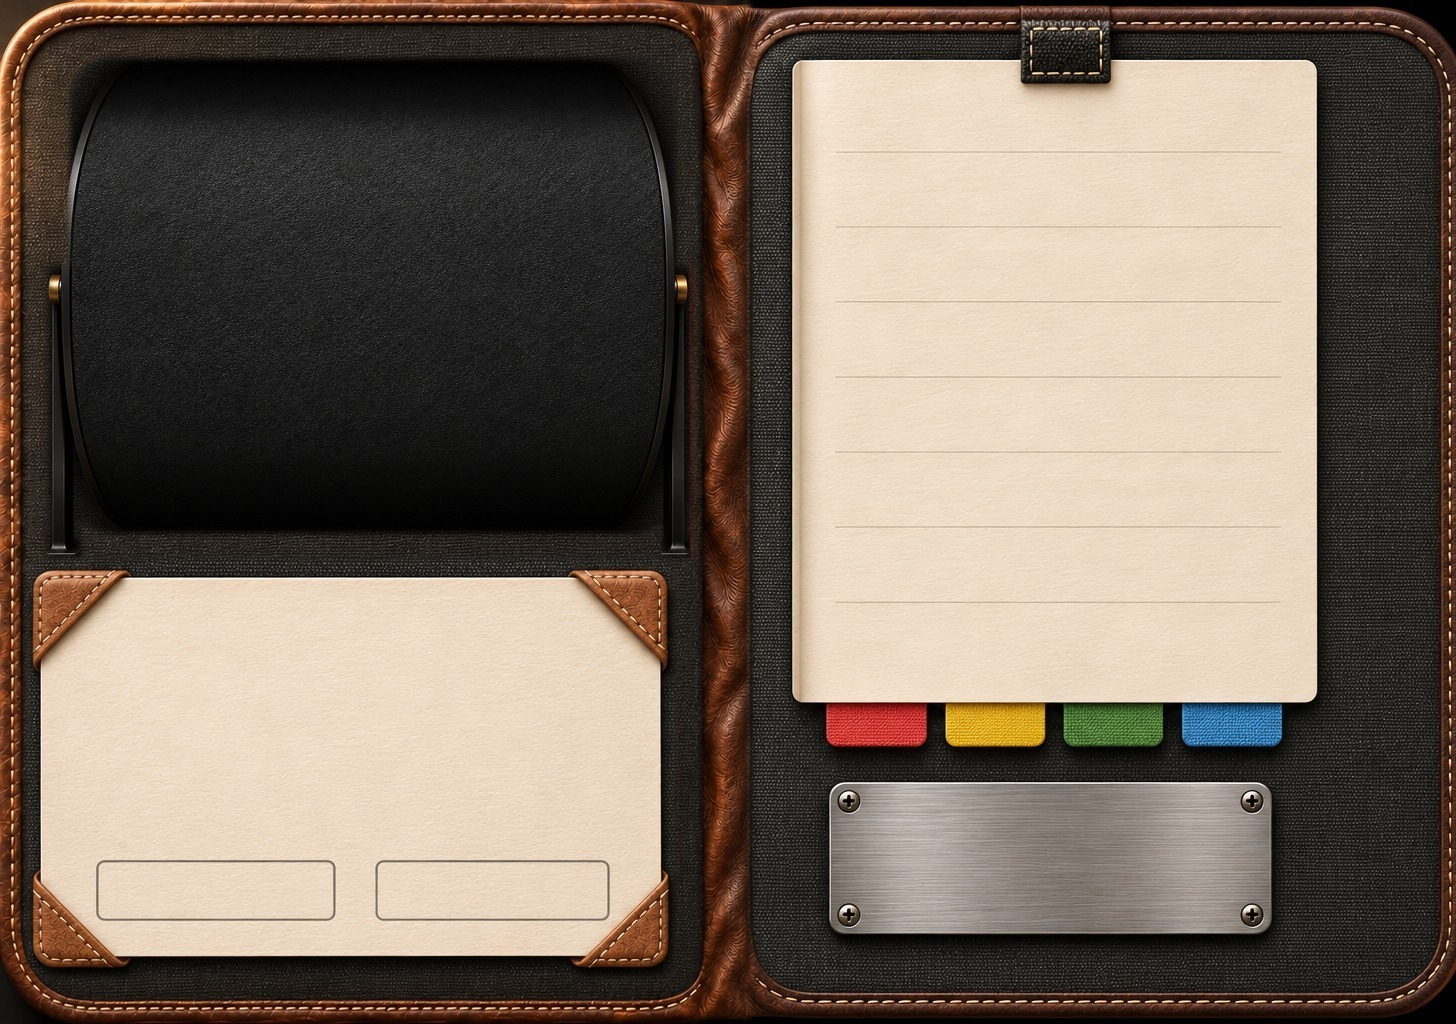
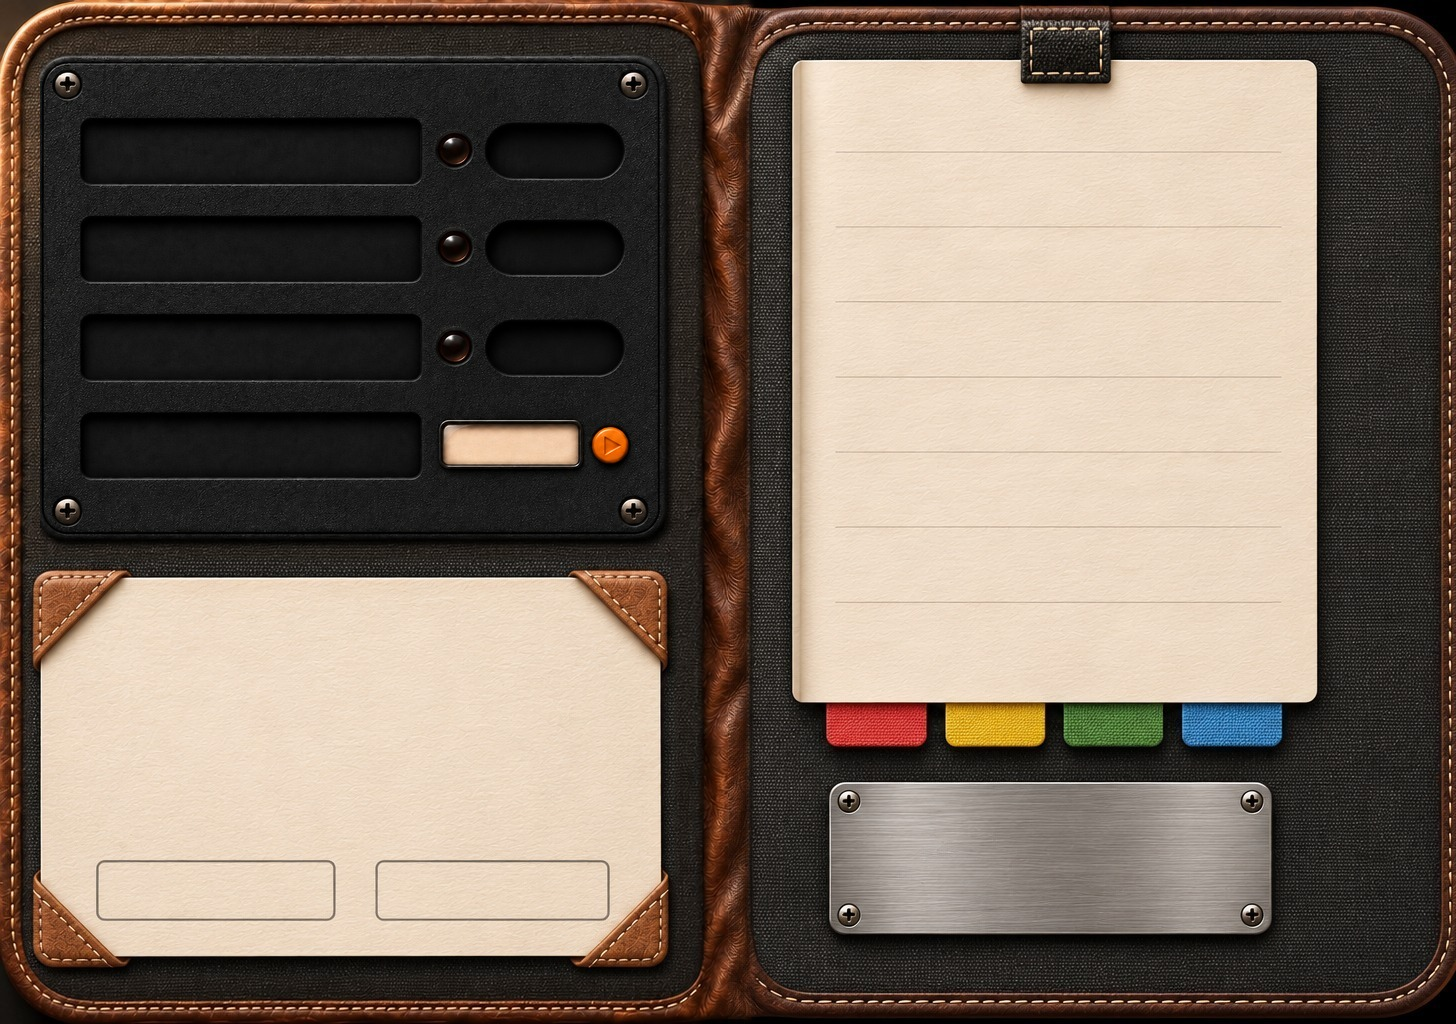
Settings back on the flat plate (user 11/24: the drum did not look good), now four rows drawn as one: three orange sliders and a Language row (paper window naming the app's language, arrow key opening iOS Settings). GPT drew the plate with thumbs in (plate4_on) and empty (plate4_empty); thumbs and l

Changed region(s): [[0.0, 0.0312, 0.4945, 0.5625]]

diff --git a/cameragr/UI/MaintenanceKit.swift b/cameragr/UI/MaintenanceKit.swift
@@ -14,15 +14,10 @@ enum KitArt {
     static let board = UIImage(named: "kit_board.jpg") ?? UIImage()
     /// Each row's slider thumb and its lamp lit warm orange, cut from GPT's
     /// drawing of this very plate with the thumbs in its slots
-    /// (design/kit/switch/plate_slider_orange.png: orange plastic, user 11/24),
-    /// so they fit the slots.
-    static let thumb = UIImage(named: "kit_thumb_0") ?? UIImage()
-    static let lampOn = UIImage(named: "kit_lamp_on_0") ?? UIImage()
-    /// One face of the settings drum, empty: a switch row (label recess, lamp,
-    /// slot) and a choice row (label recess, paper window, arrow key), cut
-    /// from GPT's drawings of the plate (design/kit/switch).
-    static let toggleRow = UIImage(named: "kit_row_toggle") ?? UIImage()
-    static let choiceRow = UIImage(named: "kit_row_value") ?? UIImage()
+    /// (design/kit/switch/plate4_on.png); the spread carries the same plate
+    /// drawn empty (plate4_empty.png), so thumb and slot are one drawing.
+    static let thumb = (0..<3).map { UIImage(named: "kit_thumb_\($0)") ?? UIImage() }
+    static let lampOn = (0..<3).map { UIImage(named: "kit_lamp_on_\($0)") ?? UIImage() }
     static let ink = Color(red: 0.2, green: 0.17, blue: 0.13)
     static let cream = Color(red: 0.93, green: 0.89, blue: 0.80)
 }
@@ -52,24 +47,34 @@ struct KitSwitchPage: View {
     @State private var restoreNote: Text?
     @State private var restoring = false
 
-    /// The certificate's printed boxes, measured on the picture.
+    /// Measured on the picture (bag pixels): the plate's four rows. Rows
+    /// 1–3 are switches (label recess, lamp, slot); row 4 is the language
+    /// (label recess, paper window, arrow key).
+    static let recessY: [CGFloat] = [118, 216, 314, 413]
+    static let recessH: CGFloat = 66
+    static let thumbOn: [CGRect] = [CGRect(x: 537, y: 127, width: 84, height: 50),
+                                    CGRect(x: 537, y: 225, width: 83, height: 49),
+                                    CGRect(x: 537, y: 324, width: 83, height: 50)]
+    /// How far the thumb moves to the slot's left end (off): the same gap at either end.
+    static let thumbTravel: CGFloat = 47
+    static let lampOn: [CGRect] = [CGRect(x: 410, y: 108, width: 86, height: 86),
+                                   CGRect(x: 412, y: 206, width: 86, height: 86),
+                                   CGRect(x: 411, y: 305, width: 86, height: 86)]
+    static let languageWindow = CGRect(x: 441, y: 422, width: 140, height: 45)
+    static let languageKey = CGRect(x: 588, y: 423, width: 45, height: 45)
     static let certificateText = CGRect(x: 110, y: 616, width: 500, height: 230)
     static let restore = CGRect(x: 97, y: 860, width: 236, height: 60)
     static let redeem = CGRect(x: 376, y: 860, width: 253, height: 60)
 
     var body: some View {
         ZStack(alignment: .topLeading) {
-            SettingsDrum(s: s, items: [
-                .toggle(title: Text("Original"), detail: Text("Save the iPhone original too"), isOn: $saveOriginal) { Preferences.saveOriginal = $0 },
-                .toggle(title: Text("Shutter sound"), detail: Text("A click when you shoot"), isOn: $shutterSound) { Preferences.shutterSound = $0 },
-                .toggle(title: Text("Haptics"), detail: Text("A light tap under your finger"), isOn: $haptics) { on in
-                    Haptic.enabled = on
-                    if on { Haptic.tap() }
-                },
-                .choice(title: Text("Language"), detail: Text("Chosen in iOS Settings"), value: Self.languageName) {
-                    if let url = URL(string: UIApplication.openSettingsURLString) { openURL(url) }
-                },
-            ])
+            switchRow(0, title: Text("Original"), detail: Text("Save the iPhone original too"), isOn: $saveOriginal) { Preferences.saveOriginal = $0 }
+            switchRow(1, title: Text("Shutter sound"), detail: Text("A click when you shoot"), isOn: $shutterSound) { Preferences.shutterSound = $0 }
+            switchRow(2, title: Text("Haptics"), detail: Text("A light tap under your finger"), isOn: $haptics) { on in
+                Haptic.enabled = on
+                if on { Haptic.tap() }
+            }
+            languageRow
             certificate
         }
         .offerCodeRedemption(isPresented: $redeeming) { _ in Task { await store.refresh() } }
@@ -80,6 +85,77 @@ struct KitSwitchPage: View {
     static var languageName: String {
         let code = Bundle.main.preferredLocalizations.first ?? "en"
         return Locale(identifier: code).localizedString(forIdentifier: code).map { $0.prefix(1).uppercased() + $0.dropFirst() } ?? code
+    }
+
+    /// The fourth row: the language in a paper window; the arrow key (or the
+    /// whole row) opens iOS Settings, where a language is chosen per app.
+    private var languageRow: some View {
+        ZStack(alignment: .topLeading) {
+            rowLabels(3, title: Text("Language"), detail: Text("Chosen in iOS Settings"))
+            Text(verbatim: Self.languageName)
+                .font(.custom("American Typewriter", size: 22 * s * b).weight(.semibold))
+                .foregroundStyle(KitArt.ink)
+                .lineLimit(1).minimumScaleFactor(0.5)
+                .padding(.horizontal, 10 * s)
+                .place(Self.languageWindow, s)
+                .allowsHitTesting(false)
+            Color.clear.contentShape(Rectangle())
+                .place(CGRect(x: 80, y: Self.recessY[3] - 8, width: 560, height: Self.recessH + 16), s)
+                .onTapGesture {
+                    Haptic.click()
+                    if let url = URL(string: UIApplication.openSettingsURLString) { openURL(url) }
+                }
+                .accessibilityElement()
+                .accessibilityLabel(Text("Language"))
+                .accessibilityValue(Text(verbatim: Self.languageName))
+                .accessibilityAddTraits(.isButton)
+        }
+    }
+
+    private func rowLabels(_ i: Int, title: Text, detail: Text) -> some View {
+        VStack(alignment: .leading, spacing: 2 * s) {
+            title.font(.custom("American Typewriter", size: 26 * s * b).weight(.semibold))
+                .foregroundStyle(Color(white: 0.84))
+            if !b.isCompactBag {
+                detail.font(.custom("American Typewriter", size: 17 * s * b))
+                    .foregroundStyle(Color(white: 0.58))
+            }
+        }
+        .lineLimit(1).minimumScaleFactor(0.55)
+        .shadow(color: .black, radius: 0, y: -1 * s)
+        .padding(.horizontal, 18 * s)
+        .place(CGRect(x: 84, y: Self.recessY[i], width: 334, height: Self.recessH), s, alignment: .leading)
+        .allowsHitTesting(false)
+    }
+
+    private func switchRow(_ i: Int, title: Text, detail: Text, isOn: Binding<Bool>, apply: @escaping (Bool) -> Void) -> some View {
+        let y = Self.recessY[i]
+        return ZStack(alignment: .topLeading) {
+            rowLabels(i, title: title, detail: detail)
+            // The lamp lights; the thumb slides to the slot's other end.
+            Image(uiImage: KitArt.lampOn[i]).resizable()
+                .place(Self.lampOn[i], s)
+                .opacity(isOn.wrappedValue ? 1 : 0)
+                .allowsHitTesting(false)
+            Image(uiImage: KitArt.thumb[i]).resizable()
+                .place(Self.thumbOn[i], s)
+                .offset(x: isOn.wrappedValue ? 0 : -Self.thumbTravel * s)
+                .animation(.spring(response: 0.22, dampingFraction: 0.8), value: isOn.wrappedValue)
+                .allowsHitTesting(false)
+            // The whole row is the switch.
+            Color.clear.contentShape(Rectangle())
+                .place(CGRect(x: 80, y: y - 8, width: 560, height: Self.recessH + 16), s)
+                .onTapGesture {
+                    isOn.wrappedValue.toggle()
+                    apply(isOn.wrappedValue)
+                    Haptic.click()
+                }
+                .accessibilityElement()
+                .accessibilityLabel(detail)
+                .accessibilityValue(isOn.wrappedValue ? Text("On") : Text("Off"))
+                .accessibilityAddTraits(.isButton)
+        }
+        .animation(.easeOut(duration: 0.1), value: isOn.wrappedValue)
     }
 
     private var certificate: some View {
@@ -369,151 +445,5 @@ struct KitHandbookPage: View {
         }
         .offset(x: sheet.minX, y: sheet.minY)
         .transition(.opacity)
-    }
-}
-
-
-// MARK: - Settings drum
-
-/// The settings on a drum of very large diameter (user 11/24): the plate as
-/// it was, but the face of a cylinder lying across the page. The rows near the
-/// front look nearly flat; those further round are squashed and darker as
-/// they go over the curve. Dragged up or down, it turns, coming to rest on a
-/// whole row with a click at each, so any number of settings fit.
-/// The drum itself, its brackets and shading, is GPT's (design/kit/switch/drum_shell.png)
-/// in the spread; the rows are drawn on it here, each at its angle.
-struct SettingsDrum: View {
-    enum Item {
-        case toggle(title: Text, detail: Text, isOn: Binding<Bool>, apply: (Bool) -> Void)
-        case choice(title: Text, detail: Text, value: String, action: () -> Void)
-    }
-    @Environment(\.bagBoost) private var b
-    let s: CGFloat
-    let items: [Item]
-    /// Which row faces us, in rows (fractional while turning).
-    @State private var turn: CGFloat = 1
-    @State private var dragFrom: CGFloat?
-
-    /// Measured on the spread (bag pixels): the drum's face, its axis height
-    /// and radius; one row every 32° (144 px apart at the front, as the plate's rows were).
-    static let face = CGRect(x: 70, y: 62, width: 595, height: 466)
-    static let axisY: CGFloat = 295
-    static let radius: CGFloat = 233   // the face's top and bottom edges are its horizon
-    static let step: CGFloat = 32 * .pi / 180
-    /// A row's picture (584×104) and where its left edge sits.
-    static let rowSize = CGSize(width: 584, height: 104)
-    static let rowX: CGFloat = 66
-    // In a row's own pixels.
-    static let label = CGRect(x: 20, y: 8, width: 330, height: 88)
-    static let thumbOn = CGRect(x: 471, y: 28, width: 84, height: 52)
-    static let thumbTravel: CGFloat = 46
-    static let lamp = CGRect(x: 346, y: 10, width: 86, height: 86)
-    static let window = CGRect(x: 375, y: 32, width: 156, height: 49)
-    static let key = CGRect(x: 536, y: 34, width: 44, height: 44)
-
-    private var range: ClosedRange<CGFloat> {
-        let n = CGFloat(items.count)
-        return min(1, n - 1)...max(min(1, n - 1), n - 2)
-    }
-
-    var body: some View {
-        let face = Self.face
-        ZStack(alignment: .topLeading) {
-            ForEach(items.indices, id: \.self) { i in
-                let angle = (CGFloat(i) - turn) * Self.step
-                if abs(angle) < 1.45 {
-                    row(items[i], front: abs(angle) < 0.7)
-                        .frame(width: Self.rowSize.width * s, height: Self.rowSize.height * s)
-                        // Squashed by the curve and darker as it turns away.
-                        .scaleEffect(x: 1, y: cos(angle))
-                        .colorMultiply(Color(white: 0.25 + 0.75 * cos(angle)))
-                        .position(x: (Self.rowX - face.minX + Self.rowSize.width / 2) * s,
-                                  y: (Self.axisY - face.minY + Self.radius * sin(angle)) * s)
-                }
-            }
-        }
-        .frame(width: face.width * s, height: face.height * s, alignment: .topLeading)
-        .clipShape(RoundedRectangle(cornerRadius: 30 * s))
-        .contentShape(Rectangle())
-        .gesture(DragGesture(minimumDistance: 6).onChanged { drag in
-            let from = dragFrom ?? turn
-            if dragFrom == nil { dragFrom = turn }
-            let pitch = Self.radius * Self.step * s
-            var next = from - drag.translation.height / pitch
-            // Past either end it gives, a little.
-            if next < range.lowerBound { next = range.lowerBound - (range.lowerBound - next) * 0.3 }
-            if next > range.upperBound { next = range.upperBound + (next - range.upperBound) * 0.3 }
-            if Int(next.rounded()) != Int(turn.rounded()) { Haptic.detent() }
-            turn = next
-        }.onEnded { drag in
-            let pitch = Self.radius * Self.step * s
-            let thrown = (dragFrom ?? turn) - drag.predictedEndTranslation.height / pitch
-            let rest = min(max(thrown.rounded(), range.lowerBound), range.upperBound)
-            dragFrom = nil
-            withAnimation(.spring(response: 0.35, dampingFraction: 0.85)) { turn = rest }
-        })
-        .offset(x: face.minX * s, y: face.minY * s)
-    }
-
-    @ViewBuilder private func row(_ item: Item, front: Bool) -> some View {
-        switch item {
-        case let .toggle(title, detail, isOn, apply):
-            ZStack(alignment: .topLeading) {
-                Image(uiImage: KitArt.toggleRow).resizable()
-                labels(title, detail)
-                Image(uiImage: KitArt.lampOn).resizable()
-                    .place(Self.lamp, s)
-                    .opacity(isOn.wrappedValue ? 1 : 0)
-                Image(uiImage: KitArt.thumb).resizable()
-                    .place(Self.thumbOn, s)
-                    .offset(x: isOn.wrappedValue ? 0 : -Self.thumbTravel * s)
-                    .animation(.spring(response: 0.22, dampingFraction: 0.8), value: isOn.wrappedValue)
-            }
-            .animation(.easeOut(duration: 0.1), value: isOn.wrappedValue)
-            .contentShape(Rectangle())
-            .onTapGesture {
-                guard front else { return }
-                isOn.wrappedValue.toggle()
-                apply(isOn.wrappedValue)
-                Haptic.click()
-            }
-            .accessibilityElement()
-            .accessibilityLabel(title)
-            .accessibilityValue(isOn.wrappedValue ? Text("On") : Text("Off"))
-            .accessibilityAddTraits(.isButton)
-        case let .choice(title, detail, value, action):
-            ZStack(alignment: .topLeading) {
-                Image(uiImage: KitArt.choiceRow).resizable()
-                labels(title, detail)
-                Text(verbatim: value)
-                    .font(.custom("American Typewriter", size: 22 * s * b).weight(.semibold))
-                    .foregroundStyle(KitArt.ink)
-                    .lineLimit(1).minimumScaleFactor(0.5)
-                    .padding(.horizontal, 10 * s)
-                    .place(Self.window, s)
-            }
-            .contentShape(Rectangle())
-            .onTapGesture { if front { Haptic.click(); action() } }
-            .accessibilityElement()
-            .accessibilityLabel(title)
-            .accessibilityValue(Text(verbatim: value))
-            .accessibilityAddTraits(.isButton)
-        }
-    }
-
-    private func labels(_ title: Text, _ detail: Text) -> some View {
-        VStack(alignment: .leading, spacing: 4 * s) {
-            title.font(.custom("American Typewriter", size: 28 * s * b).weight(.semibold))
-                .foregroundStyle(Color(white: 0.84))
-            if !b.isCompactBag {
-                detail.font(.custom("American Typewriter", size: 19 * s * b))
-                    .foregroundStyle(Color(white: 0.58))
-            }
-        }
-        .lineLimit(1).minimumScaleFactor(0.55)
-        .shadow(color: .black, radius: 0, y: -1 * s)
-        .padding(.horizontal, 18 * s)
-        .place(Self.label, s, alignment: .leading)
-        .allowsHitTesting(false)
     }
 }

diff --git a/cameragr/UI/PageDial.swift b/cameragr/UI/PageDial.swift
@@ -105,7 +105,7 @@ struct FootRoom: ViewModifier {
     let top: CGFloat
 
     static let page = CGRect(x: 26, y: 26, width: 678, height: 972)
-    static let kit = [CGRect(x: 44, y: 54, width: 652, height: 502), CGRect(x: 28, y: 558, width: 646, height: 418)]
+    static let kit = [CGRect(x: 34, y: 46, width: 640, height: 504), CGRect(x: 28, y: 558, width: 646, height: 418)]
     static let book = [CGRect(x: 58, y: 54, width: 604, height: 640), CGRect(x: 88, y: 684, width: 550, height: 276)]
 
     private var k: CGFloat {
